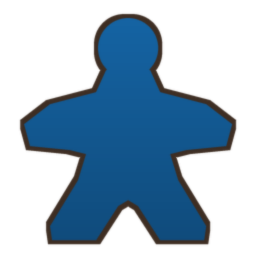
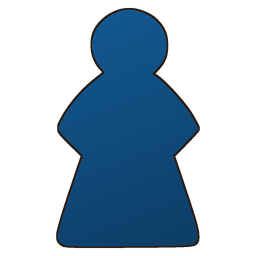
Icone dei familiari ricavate dal modello 3D del gioco (stessa forma dei meeple reali)
Claude-Session: https://claude.ai/code/session_01Ddko1Bu4T6ru5zmWwDf4A8

Changed region(s): [[0.0625, 0.0312, 0.9375, 0.9688]]

diff --git a/tools/meeple_icone.py b/tools/meeple_icone.py
@@ -1,0 +1,87 @@
+#!/usr/bin/env python3
+"""Icone 2D dei familiari ricavate dal modello 3D del gioco (assets/models/meeple.obj), viste di fronte,
+con luce morbida e bordo scuro, una per colore. Scrive assets/ui/meeple_<colore>.png (256 x 256)."""
+import os
+import numpy as np
+from PIL import Image, ImageFilter
+
+ROOT = os.path.join(os.path.dirname(os.path.abspath(__file__)), "..")
+COLORS = {"red": "#c4161c", "yellow": "#f2b705", "blue": "#1565a6", "white": "#f1ead2", "gray": "#8d948d"}
+S = 1024          # disegno in grande, poi si riduce (bordi morbidi)
+OUT = 256
+
+V, F = [], []
+for line in open(os.path.join(ROOT, "assets", "models", "meeple.obj")):
+    p = line.split()
+    if not p:
+        continue
+    if p[0] == "v":
+        V.append([float(x) for x in p[1:4]])
+    elif p[0] == "f":
+        idx = [int(t.split("/")[0]) - 1 for t in p[1:]]
+        for k in range(1, len(idx) - 1):
+            F.append((idx[0], idx[k], idx[k + 1]))
+V = np.array(V)
+lo, hi = V.min(0), V.max(0)
+size = max(hi[0] - lo[0], hi[1] - lo[1]) * 1.08
+cx, cy = (lo[0] + hi[0]) / 2, (lo[1] + hi[1]) / 2
+light = np.array([-0.45, 0.55, 0.70])
+light /= np.linalg.norm(light)
+
+
+def render(hexcol):
+    base = np.array([int(hexcol[i:i + 2], 16) for i in (1, 3, 5)], float) / 255.0
+    col = np.zeros((S, S, 3))
+    alpha = np.zeros((S, S))
+    depth = np.full((S, S), -1e9)
+    P = np.stack([(V[:, 0] - cx) / size * S + S / 2, S / 2 - (V[:, 1] - cy) / size * S, V[:, 2]], 1)
+    for a, b, c in F:
+        n = np.cross(V[b] - V[a], V[c] - V[a])
+        ln = np.linalg.norm(n)
+        if ln == 0:
+            continue
+        n /= ln
+        if n[2] < 0:
+            n = -n
+        shade = 0.42 + 0.58 * max(0.0, float(n @ light))
+        tri = P[[a, b, c]]
+        x0, y0 = np.floor(tri[:, :2].min(0)).astype(int)
+        x1, y1 = np.ceil(tri[:, :2].max(0)).astype(int)
+        x0, y0 = max(x0, 0), max(y0, 0)
+        x1, y1 = min(x1, S - 1), min(y1, S - 1)
+        if x1 < x0 or y1 < y0:
+            continue
+        xs, ys = np.meshgrid(np.arange(x0, x1 + 1) + 0.5, np.arange(y0, y1 + 1) + 0.5)
+        (ax, ay, az), (bx, by, bz), (qx, qy, qz) = tri
+        d = (by - qy) * (ax - qx) + (qx - bx) * (ay - qy)
+        if abs(d) < 1e-9:
+            continue
+        w1 = ((by - qy) * (xs - qx) + (qx - bx) * (ys - qy)) / d
+        w2 = ((qy - ay) * (xs - qx) + (ax - qx) * (ys - qy)) / d
+        w3 = 1 - w1 - w2
+        inside = (w1 >= 0) & (w2 >= 0) & (w3 >= 0)
+        z = w1 * az + w2 * bz + w3 * qz
+        sub = depth[y0:y1 + 1, x0:x1 + 1]
+        upd = inside & (z > sub)
+        sub[upd] = z[upd]
+        col[y0:y1 + 1, x0:x1 + 1][upd] = base * shade
+        alpha[y0:y1 + 1, x0:x1 + 1][upd] = 1.0
+    # sfumatura del legno: più chiaro in alto a sinistra, più scuro in basso
+    yy, xx = np.mgrid[0:S, 0:S] / S
+    col *= (1.12 - 0.30 * yy - 0.12 * xx)[..., None]
+    img = Image.fromarray((np.clip(col, 0, 1) * 255).astype(np.uint8), "RGB")
+    mask = Image.fromarray((alpha * 255).astype(np.uint8), "L")
+    # bordo scuro come il legno visto di profilo
+    edge = mask.filter(ImageFilter.MaxFilter(13))
+    dark = Image.new("RGBA", (S, S), (40, 22, 10, 255))
+    out = Image.new("RGBA", (S, S), (0, 0, 0, 0))
+    out.paste(dark, (0, 0), edge)
+    fg = img.convert("RGBA")
+    fg.putalpha(mask)
+    out.alpha_composite(fg)
+    return out.resize((OUT, OUT), Image.LANCZOS)
+
+
+for key, hx in COLORS.items():
+    render(hx).save(os.path.join(ROOT, "assets", "ui", "meeple_%s.png" % key), optimize=True)
+    print("meeple", key)
